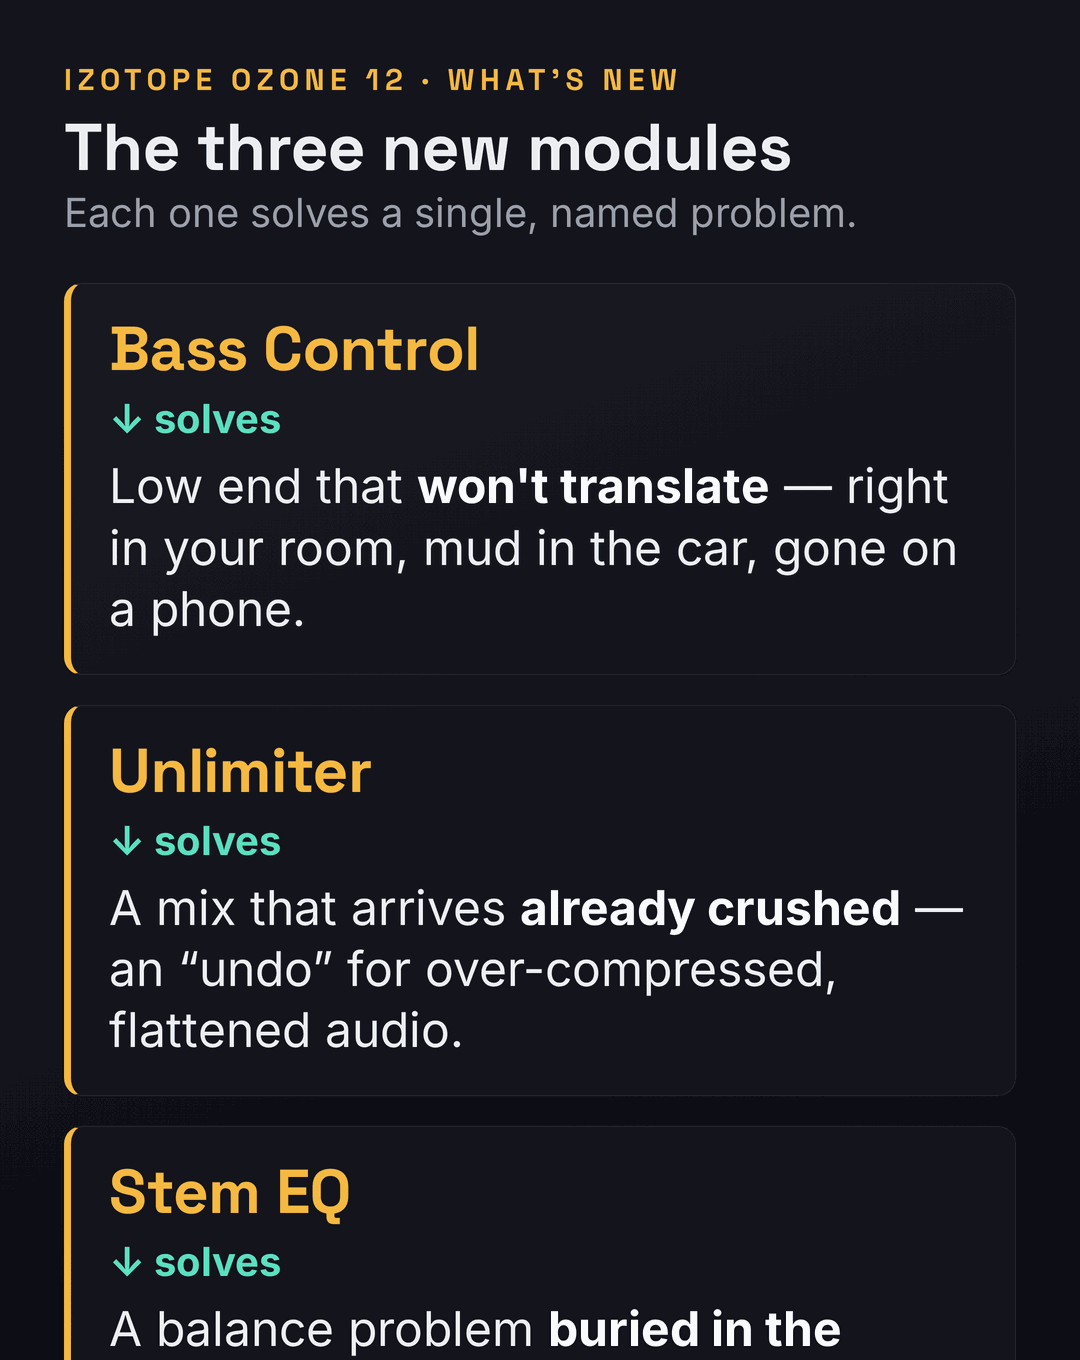
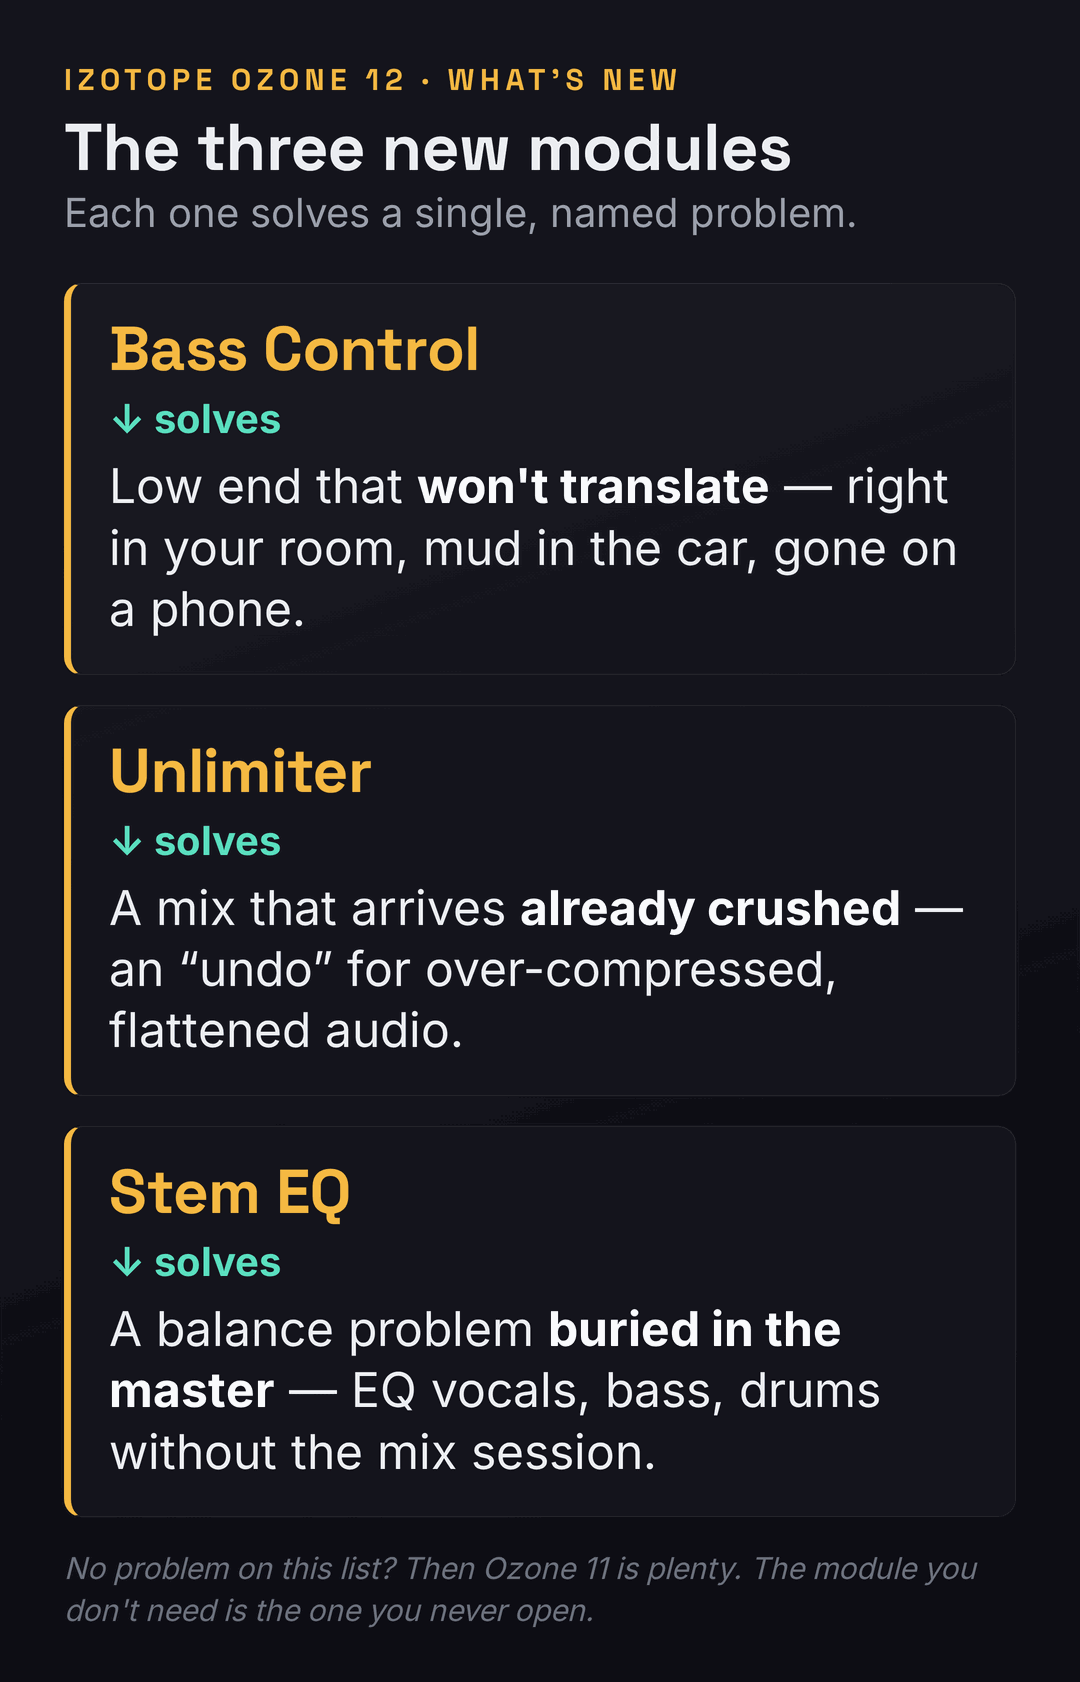
izotope-ozone-12-vs-11: comparison — article + 3 PNG + search-index + sitemap, one deploy [S171]

Changed region(s): [[0.0611, 0.0309, 0.8861, 1.0]]

diff --git a/articles/izotope-ozone-12-vs-11.html b/articles/izotope-ozone-12-vs-11.html
@@ -100,6 +100,9 @@
     .faq-accordion-a.open{display:block;}
     /* --- soothe-vs-gullfoss additions --- */
     .diagram-wrap img{width:100%;height:auto;display:block;border-radius:12px;border:1px solid var(--border-subtle);}
+    .diagram-wrap{display:flex;flex-direction:column;align-items:center;}
+    .diagram-wrap img{max-width:460px;width:100%;height:auto;margin:0 auto;}
+    @media(max-width:560px){.diagram-wrap img{max-width:100%;}}
     .verdict-pair{display:grid;grid-template-columns:1fr 1fr;gap:1.1rem;margin:1.6rem 0 .4rem;}
     @media(max-width:680px){.verdict-pair{grid-template-columns:1fr;}}
     .verdict-card{border:1px solid var(--border-default);border-radius:14px;padding:1.2rem 1.25rem 1.3rem;background:var(--bg-void);}
@@ -453,7 +456,7 @@ html{overflow-x:clip!important;max-width:none!important}body{overflow-x:clip!imp
 <p>With that framing in place, here is the genuine substance of the release. Ozone 12 Advanced ships <strong>twenty modules</strong> (twenty-one plug-ins if you count the &ldquo;mothership&rdquo; hub that hosts them), and three of those modules are brand new. <strong>Bass Control</strong> is a dedicated low-end module that analyzes and shapes the bass so it holds together across systems &mdash; the car, the club, the laptop &mdash; rather than collapsing or booming depending on where it is played. <strong>Unlimiter</strong> is the headline trick: an &ldquo;undo&rdquo; for over-compressed audio that uses machine learning to reintroduce transients and dynamics into a mix that was crushed before it reached you. <strong>Stem EQ</strong> separates a finished stereo master into vocals, bass, drums, and everything else, and lets you equalize each one without re-opening the mix session. Those three are the real reason the version number moved, and we will map each to the problem it solves in the next section, because that mapping <em>is</em> the upgrade decision.</p>
 
 <div class="diagram-wrap">
-  <img src="../images/ozone-12-vs-11-new-modules-map.png" alt="A problem-to-module map for iZotope Ozone 12: three new modules each tied to the specific mastering problem it solves. Bass Control solves low end that will not translate across systems; Unlimiter solves crushed, over-limited mixes that arrive with no dynamics; Stem EQ solves a balance problem buried in a finished master, letting you EQ vocals, bass and drums without reopening the mix." width="1080" height="1360" loading="lazy">
+  <img src="../images/ozone-12-vs-11-new-modules-map.png" alt="A problem-to-module map for iZotope Ozone 12: three new modules each tied to the specific mastering problem it solves. Bass Control solves low end that will not translate across systems; Unlimiter solves crushed, over-limited mixes that arrive with no dynamics; Stem EQ solves a balance problem buried in a finished master, letting you EQ vocals, bass and drums without reopening the mix." width="1080" height="1682" loading="lazy">
   <div class="diagram-caption">The honest version of &ldquo;what&rsquo;s new&rdquo;: each new Ozone 12 module exists to solve one named problem. If you do not have the problem, you do not need the module. Modules and capabilities verified against iZotope&rsquo;s product pages, June 21, 2026.</div>
 </div>
 
@@ -472,7 +475,7 @@ html{overflow-x:clip!important;max-width:none!important}body{overflow-x:clip!imp
 <p><strong>Problem two: your low end will not translate.</strong> Bass that sounds right in your room turns to mud in the car and disappears on a phone &mdash; the oldest, most frustrating problem in mastering, and the hardest to fix by eye because you cannot trust your own monitoring. Ozone 11 gave you tools that touch this (Low End Focus, the EQ, the Maximizer), but Ozone 12&rsquo;s <strong>Bass Control</strong> makes it a dedicated, analysis-driven module aimed squarely at consistency across playback systems. If low-end translation is a recurring headache &mdash; if you produce bass-heavy genres, or you simply do not have a treated room and a sub you trust &mdash; this is a genuine, daily-use upgrade. If your low end already behaves, because your monitoring is solid or your genre is sparse down low, Bass Control is a nicety, not a need. A blunt gut-check here: our free <a href="../tools/mix-fingerprint.html">Mix Fingerprint Analyzer</a> will show you how your low end actually sits against reference targets, which is a cheaper way to find out whether you have this problem than buying a module to fix it.</p>
 
 <div class="diagram-wrap">
-  <img src="../images/ozone-12-vs-11-upgrade-decision.png" alt="An upgrade decision flow for Ozone 12 versus Ozone 11. The flow asks three yes-or-no questions: Do you master crushed or over-limited mixes? Do you fight low end that will not translate across systems? Do you regularly fix balance problems at the master stage? If you answer yes to one or more, the path leads to Upgrade to Ozone 12. If you answer no to all three but own no Ozone, the path leads to Buy Ozone 12 new or consider a stock DAW assistant. If you own Ozone 11 and answer no to all three, the path leads to Stay on Ozone 11." width="1080" height="1480" loading="lazy">
+  <img src="../images/ozone-12-vs-11-upgrade-decision.png" alt="An upgrade decision flow for Ozone 12 versus Ozone 11. The flow asks three yes-or-no questions: Do you master crushed or over-limited mixes? Do you fight low end that will not translate across systems? Do you regularly fix balance problems at the master stage? If you answer yes to one or more, the path leads to Upgrade to Ozone 12. If you answer no to all three but own no Ozone, the path leads to Buy Ozone 12 new or consider a stock DAW assistant. If you own Ozone 11 and answer no to all three, the path leads to Stay on Ozone 11." width="1080" height="1662" loading="lazy">
   <div class="diagram-caption">The upgrade decision as a flow: the three new modules each map to one yes/no problem. One firm &ldquo;yes&rdquo; justifies the $299; three &ldquo;no&rdquo;s mean stay on 11. This is a guide, not a guarantee &mdash; trial Ozone 12 on your own material before you buy.</div>
 </div>
 
@@ -534,7 +537,7 @@ html{overflow-x:clip!important;max-width:none!important}body{overflow-x:clip!imp
 <p>The loudest complaint about this release has nothing to do with the software and everything to do with the bill, so let us put the real numbers on the table. As of June 2026, a fresh <strong>Ozone 12 Advanced</strong> license is <strong>$499</strong> direct from iZotope. The <strong>upgrade from any previous Ozone Advanced</strong>, including Ozone 11, is <strong>$299</strong>. Do the division: the upgrade costs <strong>exactly 60% of buying the thing new</strong>. That is the number every cookie-cutter page lists and none of them confronts. Sixty percent of full price to move one version forward is steep &mdash; steeper than most plugin upgrades in this category &mdash; and pretending otherwise does you no favors.</p>
 
 <div class="diagram-wrap">
-  <img src="../images/ozone-12-vs-11-price-ladder.png" alt="A price ladder for iZotope Ozone 12 showing the three tiers and the upgrade math. Elements is about 55 dollars, Standard is a mid tier, and Advanced is 499 dollars new. The upgrade from a previous Ozone Advanced to Ozone 12 Advanced is 299 dollars, which the figure highlights as 60 percent of the 499 dollar full price. A dated caption notes prices were verified June 21, 2026 and that seasonal sales and crossgrades push the numbers lower." width="1080" height="1340" loading="lazy">
+  <img src="../images/ozone-12-vs-11-price-ladder.png" alt="A price ladder for iZotope Ozone 12 showing the three tiers and the upgrade math. Elements is about 55 dollars, Standard is a mid tier, and Advanced is 499 dollars new. The upgrade from a previous Ozone Advanced to Ozone 12 Advanced is 299 dollars, which the figure highlights as 60 percent of the 499 dollar full price. A dated caption notes prices were verified June 21, 2026 and that seasonal sales and crossgrades push the numbers lower." width="1080" height="1369" loading="lazy">
   <div class="diagram-caption">The upgrade is $299 &mdash; 60% of the $499 full price. Prices verified June 21, 2026 (iZotope, Sweetwater, Plugin Boutique); seasonal sales, crossgrades and Black Friday push them lower, so check before buying.</div>
 </div>
 
